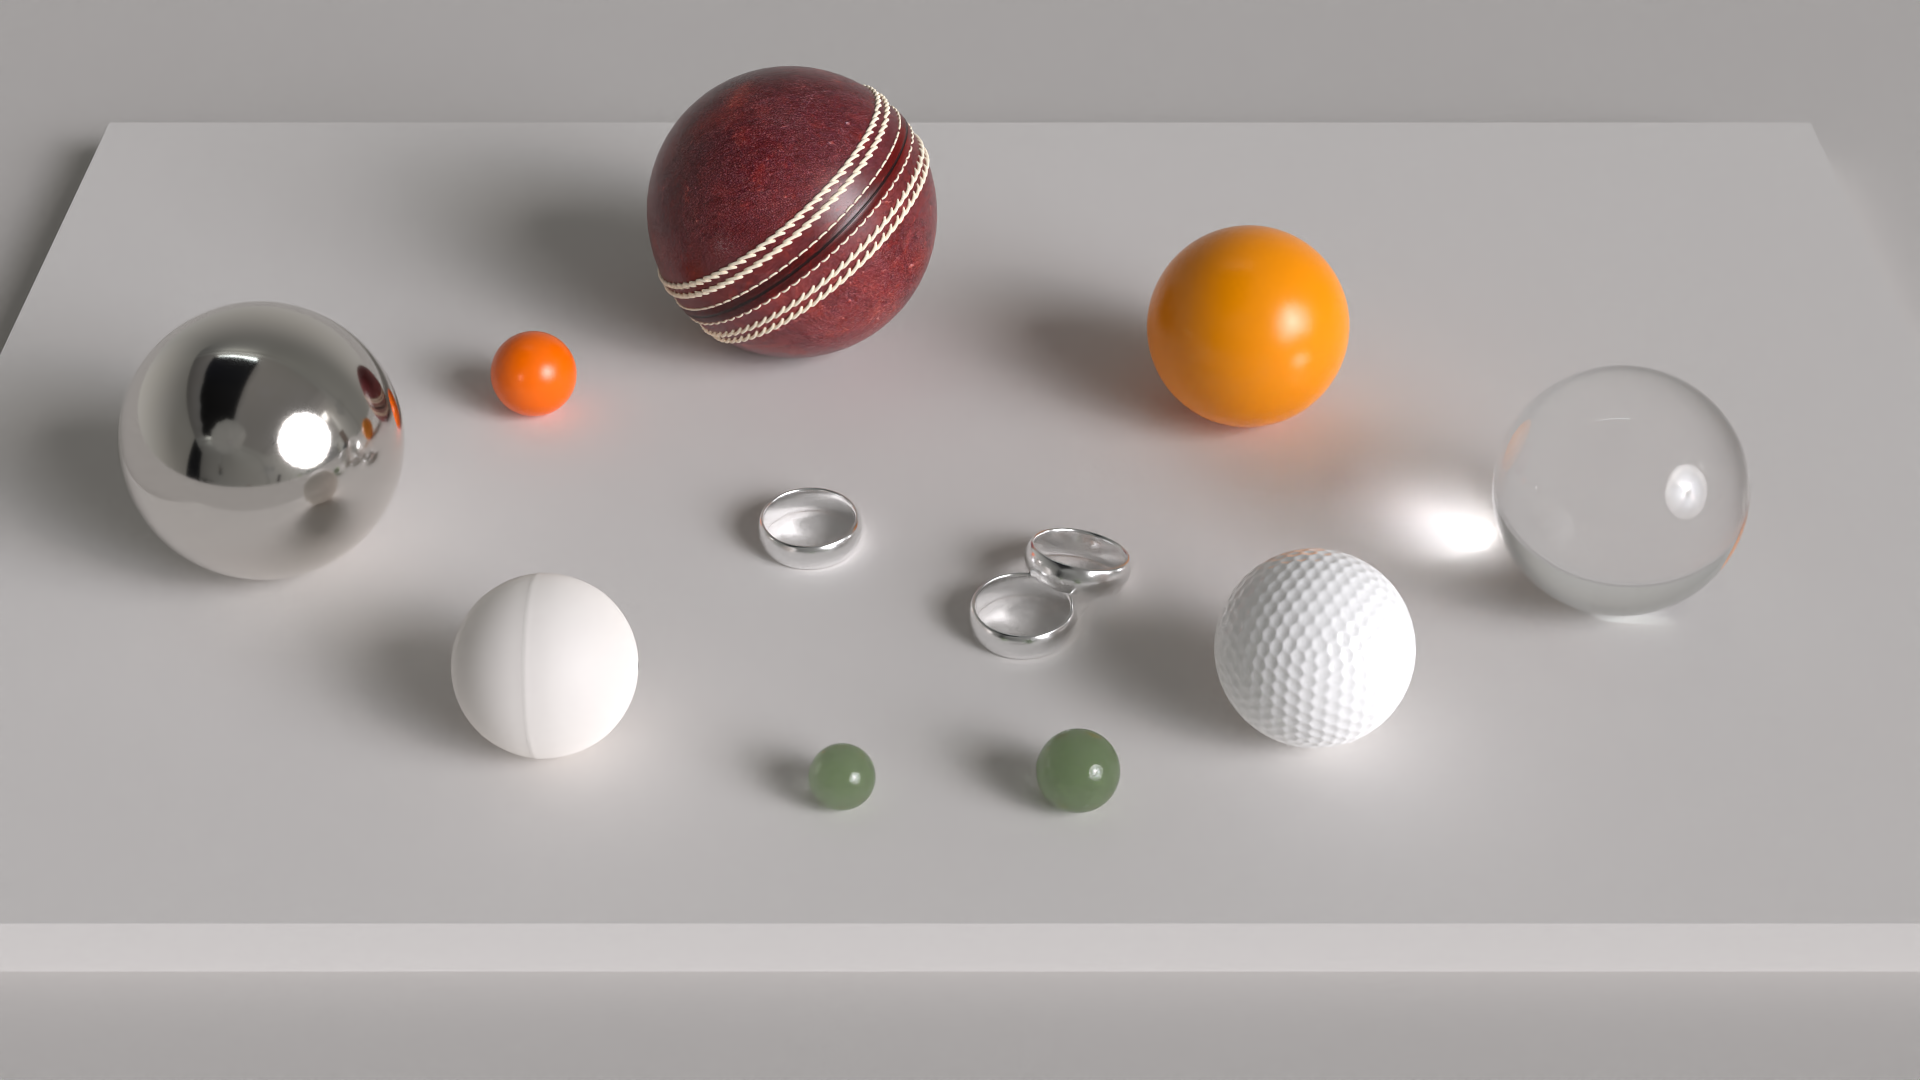
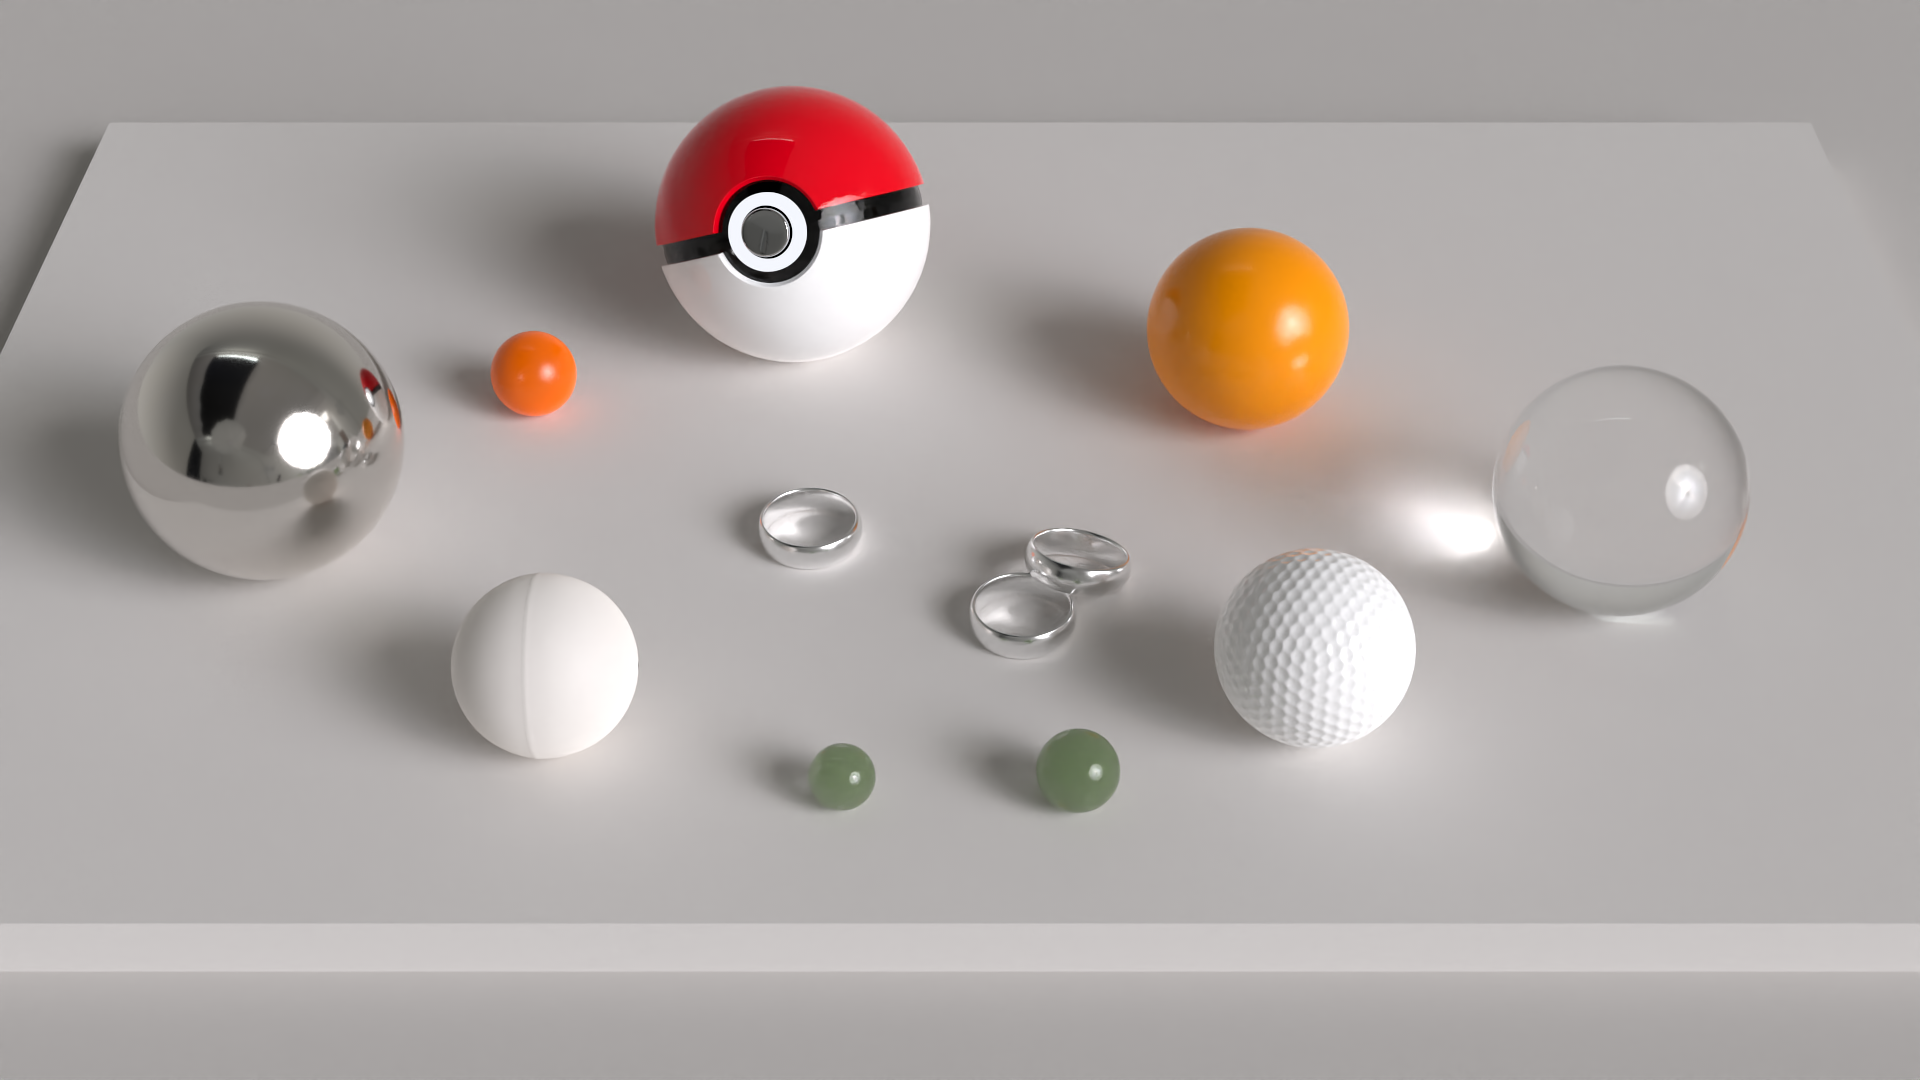
Replace cricket ball with pokeball
Add pokeball attribution

Changed region(s): [[0.3125, 0.0611, 0.5312, 0.3972], [0.1875, 0.3361, 0.2188, 0.3972], [0.5938, 0.275, 0.625, 0.3056]]

diff --git a/scenes/hyperion.rs b/scenes/hyperion.rs
@@ -2,19 +2,20 @@ use std::f32;
 use std::f32::consts::PI;
 use std::sync::Arc;
 
-use glam::{Vec2, Vec3A};
+use glam::Vec3A;
 
 use crate::bvh::BVH;
 use crate::camera::Camera;
 use crate::environment::EnvironmentMap;
 use crate::extensions::PushInto;
+use crate::io::load_obj;
 use crate::materials::{Diffuse, Material, Plastic, Reflective, Refractive, Volumetric};
 use crate::plane::{Axis, Bounds2D, Plane};
 use crate::primitive::Primitive;
 use crate::rectangle::Rectangle;
 use crate::scene::{Scene, SceneBuilder};
 use crate::sphere::Sphere;
-use crate::texture::{Color, ImageTexture, Texture};
+use crate::texture::{Color, Texture};
 use crate::transformations::TransformedMesh;
 use crate::triangle::TriangleMesh;
 use crate::volume::Volume;
@@ -63,29 +64,24 @@ pub fn hyperion_scene(width: Option<usize>, height: Option<usize>) -> Scene {
     let orange_id = tex!(textures, orange_color);
     let orange_rough_id = tex!(textures, orange_bright_color);
     let marble_vol_id = tex!(textures, Color::new(0.60, 0.71, 0.49));
-    let cricket_id = tex!(textures, ImageTexture::new("extras/textures/cricket_ball_diffuse.jpg", Vec2::splat(1.0)));
     let pingpong_id = tex!(textures, Color::new(0.93, 0.89, 0.85));
     let white_id = tex!(textures, Color::new(1.0, 1.0, 1.0));
-    let cream_id = tex!(textures, Color::new(1.0, 0.904, 0.725));
-
 
     let floor_idx = mat!(materials, Diffuse::new(floor_id, 0.0));
     let glass_idx = mat!(materials, Refractive::new(glass_id, 1.5));
     let metal_idx = mat!(materials, Reflective::new(metal_id, 0.2));
     let dark_metal_idx = mat!(materials, Reflective::new(dark_metal_id, 0.10));
     let platform_idx = mat!(materials, Diffuse::new(platform_id, 0.0));
-    let orange_idx = mat!(materials, Plastic::new(orange_id, 0.25, 1.5));
-    let orange_rough_idx = mat!(materials, Plastic::new(orange_rough_id, 0.25, 1.5));
+    let orange_idx = mat!(materials, Plastic::new(orange_id, 0.20, 1.5));
+    let orange_rough_idx = mat!(materials, Plastic::new(orange_rough_id, 0.25, 1.5).with_subsurface(0.80));
     let marble_vol_idx = mat!(materials, Volumetric::new(marble_vol_id));
-    let cricket_idx = mat!(materials, Plastic::new(cricket_id, 0.30, 1.5));
     let pingpong_idx = mat!(materials, Plastic::new(pingpong_id, 0.60, 1.45).with_subsurface(0.40));
     let white_idx = mat!(materials, Plastic::new(white_id, 0.1, 1.45));
-    let cream_idx = mat!(materials, Plastic::new(cream_id, 1.0, 1.45));
 
     let floor_plane = Plane::new(Axis::XZ, Bounds2D::new(-50.0..50.0, -50.0..50.0), 0.0, floor_idx);
     let platform = Rectangle::new(Vec3A::new(-3.5, 0.0, -4.0), Vec3A::new(3.5, 0.2, 0.5), platform_idx);
     let glass_sphere = Sphere::new(Vec3A::new(2.1, 0.60, -1.0), 0.4, glass_idx);
-    let orange_sphere = Sphere::new(Vec3A::new(1.0, 0.55, -2.0), 0.35, orange_idx);
+    let orange_sphere = Sphere::new(Vec3A::new(1.0, 0.54, -2.0), 0.35, orange_idx);
     let metal_sphere = Sphere::new(Vec3A::new(-2.25, 0.65, -1.2), 0.45, dark_metal_idx);
     let large_marble = Sphere::new(Vec3A::new(0.35, 0.325, 0.0), 0.125, glass_idx);
     let small_marble = Sphere::new(Vec3A::new(-0.35, 0.30, 0.0), 0.10, glass_idx);
@@ -98,20 +94,19 @@ pub fn hyperion_scene(width: Option<usize>, height: Option<usize>) -> Scene {
     let ring_center = TransformedMesh::new(Vec3A::new(0.20, 0.20, -0.80), Vec3A::new(0.0, 45.0, 0.0), Vec3A::new(0.15, 0.17, 0.15), Primitive::TriangleMesh(Arc::clone(&ring_mesh)));
     let ring_right = TransformedMesh::new(Vec3A::new(0.375, 0.25, -1.0), Vec3A::new(-15.0, 0.0, -10.0), Vec3A::new(0.15, 0.17, 0.15), Primitive::TriangleMesh(Arc::clone(&ring_mesh)));
 
-    let cricket_ball_mesh = TriangleMesh::from("extras/models/cricket_ball_no_stitch.obj", cricket_idx);
-    let cricket_ball_stitch_bottom_mesh = TriangleMesh::from("extras/models/cricket_ball_stitch_bottom.obj", cream_idx);
-    let cricket_ball_stitch_top_mesh = TriangleMesh::from("extras/models/cricket_ball_stitch_top.obj", cream_idx);
-    let (translation, rotation, scale) = (Vec3A::new(-0.6, 0.70, -2.5), Vec3A::new(-30.0, 0.0, 15.0), Vec3A::splat(1.75));
-    let cricked_ball = TransformedMesh::new(translation, rotation, scale, cricket_ball_mesh);
-    let cricked_ball_stitch_bottom = TransformedMesh::new(translation, rotation, scale, cricket_ball_stitch_bottom_mesh);
-    let cricked_ball_stitch_top = TransformedMesh::new(translation, rotation, scale, cricket_ball_stitch_top_mesh);
+    let (translation, rotation, scale) = (Vec3A::new(-0.6, 0.65, -2.5), Vec3A::new(-30.0, 0.0, 15.0), Vec3A::splat(0.25));
+    let default_material = Diffuse::new(white_id, 1.0);
+    let (meshes, _) = load_obj("extras/models/pokeball.obj", &mut materials, &mut textures, None, default_material);
+    for mesh in meshes {
+        let transformed_mesh = TransformedMesh::new(translation, rotation, scale, mesh);
+        objects.push_into(transformed_mesh);
+    }
 
     let pingpong_mesh = TriangleMesh::from("extras/models/pingpong.obj", pingpong_idx);
     let pingpong_sphere = TransformedMesh::new(Vec3A::new(-1.25, 0.475, -0.3), Vec3A::new(0.0, 0.0, 90.0), Vec3A::splat(0.28), pingpong_mesh);
 
     let golf_ball_mesh = TriangleMesh::from("extras/models/golf_ball.obj", white_idx);
     let golf_ball = TransformedMesh::new(Vec3A::new(1.70, 0.67, -0.35), Vec3A::new(-30.0, 0.0, 15.0), Vec3A::splat(0.23), golf_ball_mesh);
-
 
     objects.push_into(floor_plane);
     objects.push_into(platform);
@@ -125,9 +120,6 @@ pub fn hyperion_scene(width: Option<usize>, height: Option<usize>) -> Scene {
     objects.push_into(ring_left);
     objects.push_into(ring_center);
     objects.push_into(ring_right);
-    objects.push_into(cricked_ball);
-    objects.push_into(cricked_ball_stitch_bottom);
-    objects.push_into(cricked_ball_stitch_top);
     objects.push_into(pingpong_sphere);
     objects.push_into(golf_ball);
     objects.push_into(orange_sphere_small);
